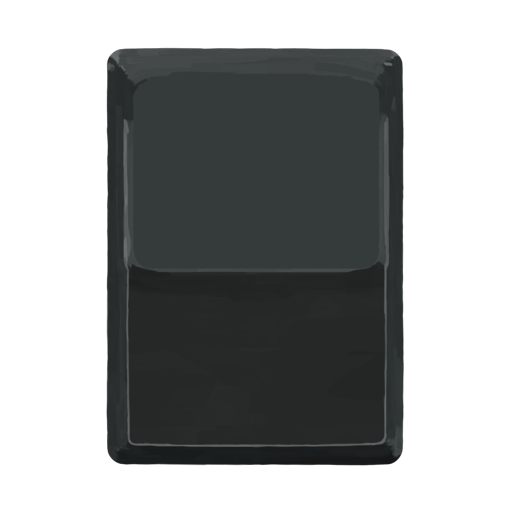
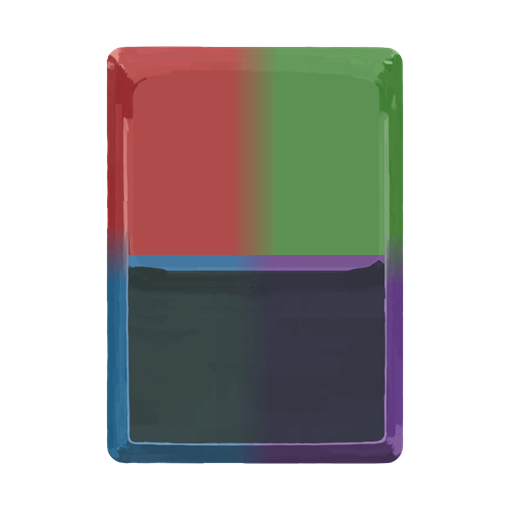
Added new cardback and ceramic fish

diff --git a/src/main/java/prismaticmod/relics/CeramicFish2.java b/src/main/java/prismaticmod/relics/CeramicFish2.java
@@ -1,0 +1,55 @@
+package prismaticmod.relics;
+
+import com.evacipated.cardcrawl.mod.stslib.relics.OnSkipCardRelic;
+import com.megacrit.cardcrawl.cards.AbstractCard;
+import com.megacrit.cardcrawl.dungeons.AbstractDungeon;
+import com.megacrit.cardcrawl.rewards.RewardItem;
+import theprismatic.ThePrismatic;
+
+import static prismaticmod.BasicMod.makeID;
+
+public class CeramicFish2 extends BaseRelic implements OnSkipCardRelic {
+    private static final String NAME = "Ceramic Fish"; //The name will be used for determining the image file as well as the ID.
+    public static final String ID = makeID(NAME); //This adds the mod's prefix to the relic ID, resulting in modID:MyRelic
+    private static final RelicTier RARITY = RelicTier.COMMON; //The relic's rarity.
+    private static final LandingSound SOUND = LandingSound.FLAT; //The sound played when the relic is clicked.
+    private static final int goldCount = 20;
+
+    public CeramicFish2() {
+        super(ID, NAME, ThePrismatic.Enums.CARD_COLOR, RARITY, SOUND);
+    }
+
+    public String getUpdatedDescription() {
+        return this.DESCRIPTIONS[0] + goldCount + this.DESCRIPTIONS[1];
+    }
+
+    public void onObtainCard(AbstractCard c) {
+        if(!this.usedUp){
+            AbstractDungeon.player.gainGold(goldCount);
+        }
+    }
+
+    public void setCounter(int setCounter) {
+        this.counter = setCounter;
+        if (setCounter == -2) {
+            usedUp();
+            this.counter = -2;
+        }
+    }
+
+    @Override
+    public void onSkipSingingBowl(RewardItem rewardItem) {
+        if (!this.usedUp) {
+            flash();
+            setCounter(-2);
+        }
+    }
+
+    @Override
+    public void onSkipCard(RewardItem rewardItem) {
+        if (!this.usedUp) {
+            flash();
+            setCounter(-2);
+        }
+    }
+}

diff --git a/src/main/java/theprismatic/ThePrismatic.java b/src/main/java/theprismatic/ThePrismatic.java
@@ -404,11 +404,11 @@ public class ThePrismatic extends CustomPlayer {
         tmpPool.add(new Impatience());
         tmpPool.add(new JackOfAllTrades());
         tmpPool.add(new Madness());
-        tmpPool.add(new Magnetism2());
+        tmpPool.add(new Magnetism());
         tmpPool.add(new MasterOfStrategy());
         //tmpPool.add(new Mayhem());
         tmpPool.add(new Metamorphosis());
-        tmpPool.add(new MindBlast2());
+        tmpPool.add(new MindBlast());
         tmpPool.add(new Panacea());
         tmpPool.add(new Panache());
         tmpPool.add(new PanicButton());
